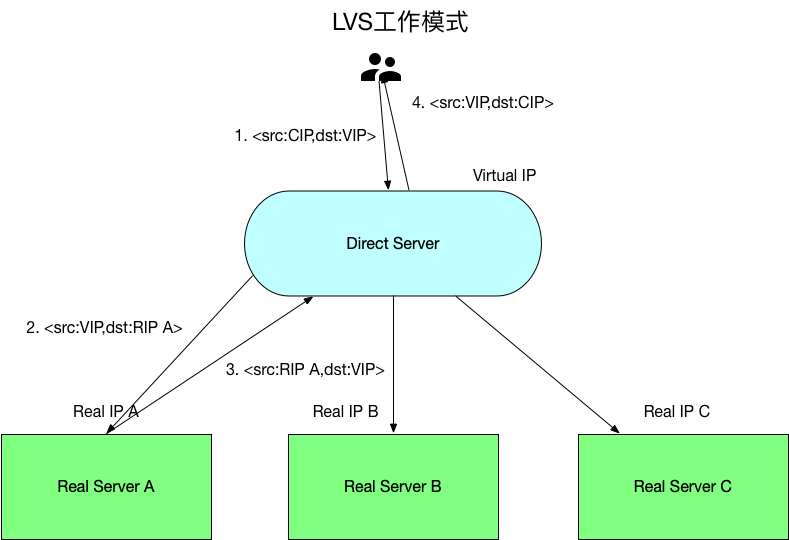
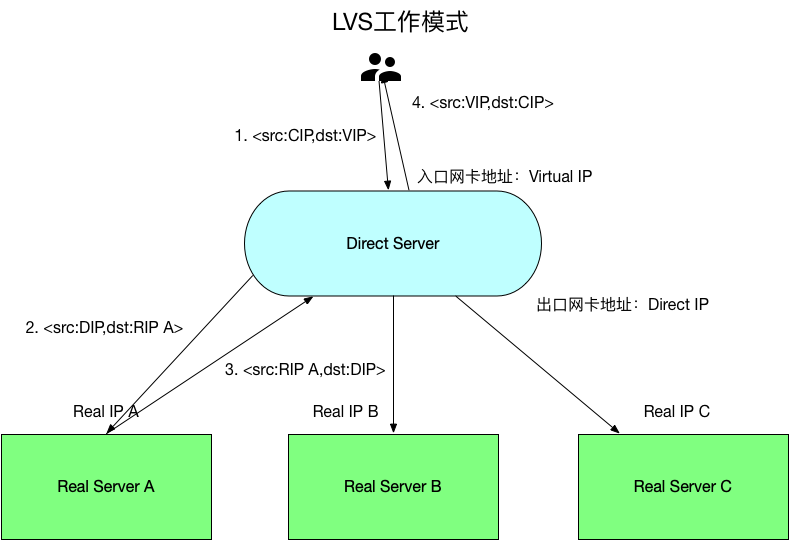
服务调用演化历史

diff --git a/post/20190629-service-history/index.html b/post/20190629-service-history/index.html
@@ -62,7 +62,7 @@
 
 <meta itemprop="datePublished" content="2019-06-29T12:47:07&#43;08:00" />
 <meta itemprop="dateModified" content="2019-06-29T12:47:07&#43;08:00" />
-<meta itemprop="wordCount" content="6011">
+<meta itemprop="wordCount" content="6049">
 
 
 
@@ -323,6 +323,7 @@ if (!doNotTrack) {
 <ul>
 <li>Direct Server（以下简称DS）：前端暴露给客户端进行负载均衡的服务器。</li>
 <li>Virtual Ip地址（以下简称VIP）：DS暴露出去的IP地址，做为客户端请求的地址。</li>
+<li>Direct Ip地址（以下简称DIP）：DS用于与Real Server交互的IP地址。</li>
 <li>Real Server（以下简称RS）：后端真正进行工作的服务器，可以横向扩展。</li>
 <li>Real IP地址（以下简称RIP）：RS的地址。</li>
 <li>Client IP地址（以下简称CIP）：Client的地址。</li>
@@ -334,8 +335,8 @@ if (!doNotTrack) {
 
 <ol>
 <li>使用VIP地址访问DS，此时的地址二元组为&lt;src:CIP,dst:VIP&gt;。</li>
-<li>DS根据自己的负载均衡算法，选择一个RS将请求转发过去，在转发过去的时候，修改请求的源IP地址为VIP地址，让RS看上去认为是DS在访问它，此时的地址二元组为&lt;src:VIP,dst:RIP A&gt;。</li>
-<li>RS处理并且应答该请求，这个回报的源地址为RS的RIP地址，目的地址为VIP地址，此时的地址二元组为&lt;src:RIP A,dst:VIP&gt;。</li>
+<li>DS根据自己的负载均衡算法，选择一个RS将请求转发过去，在转发过去的时候，修改请求的源IP地址为DIP地址，让RS看上去认为是DS在访问它，此时的地址二元组为&lt;src:DIP,dst:RIP A&gt;。</li>
+<li>RS处理并且应答该请求，这个回报的源地址为RS的RIP地址，目的地址为DIP地址，此时的地址二元组为&lt;src:RIP A,dst:DIP&gt;。</li>
 <li>DS在收到该应答包之后，将报文应答客户端，此时修改应答报文的源地址为VIP地址，目的地址为CIP地址，此时的地址二元组为&lt;src:VIP,dst:CIP&gt;。</li>
 </ol>
 
